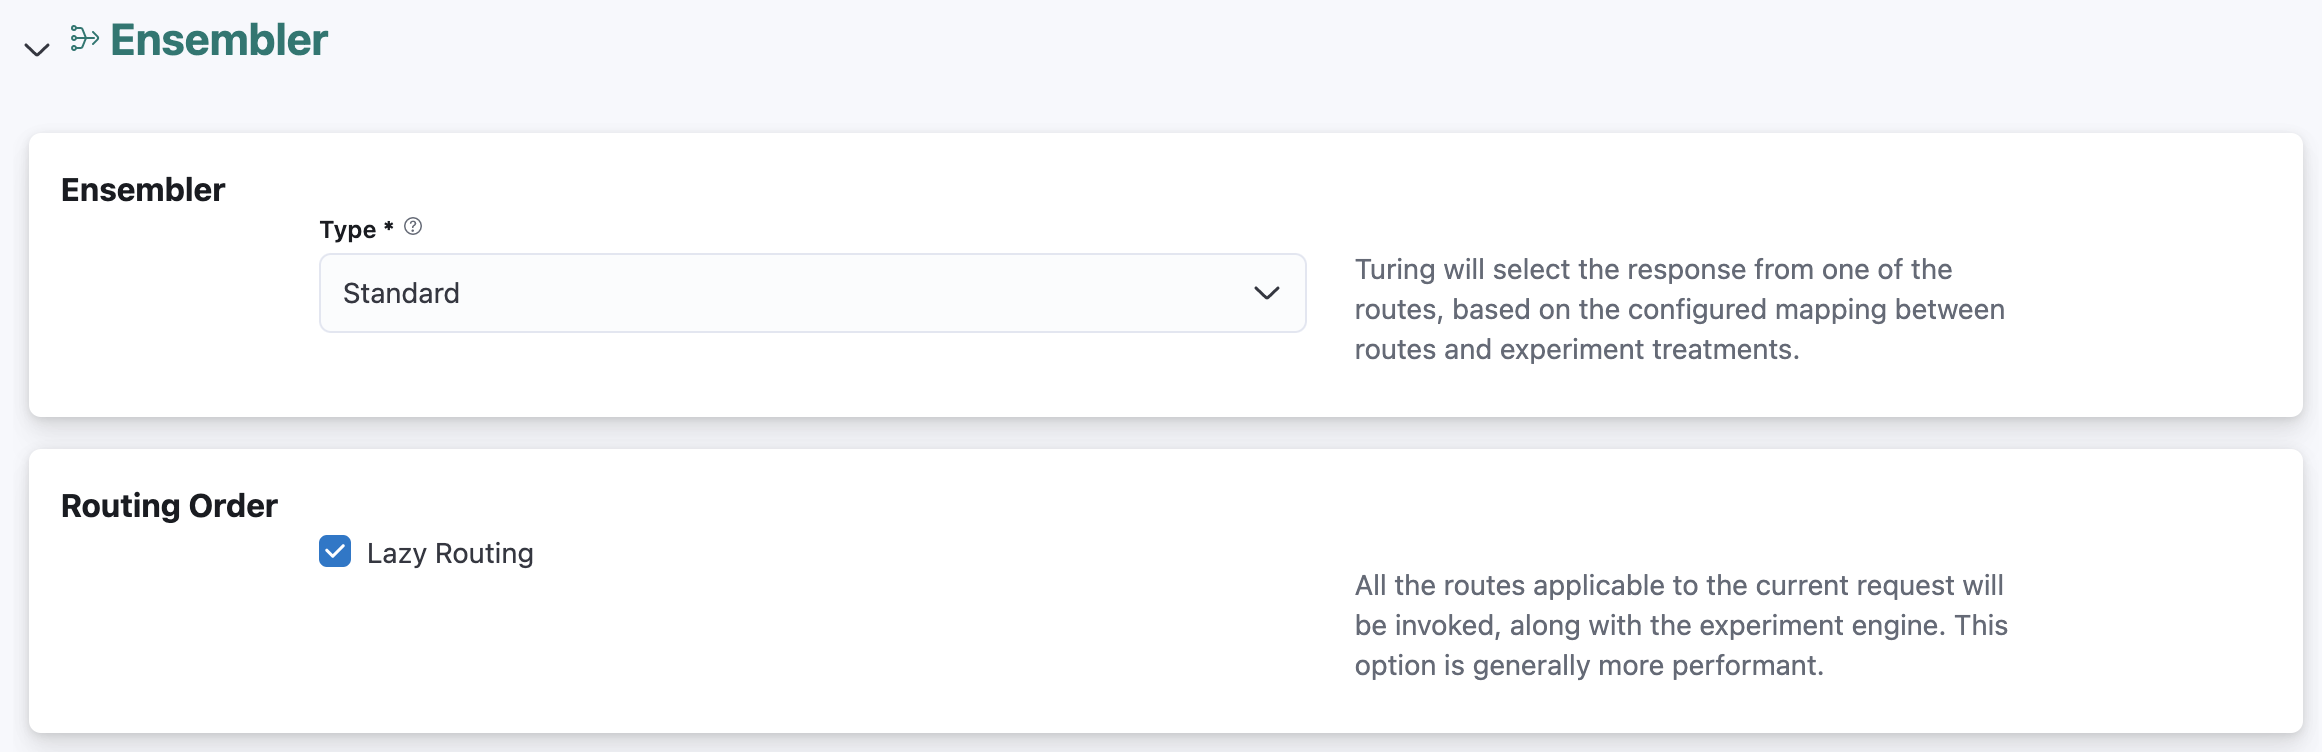
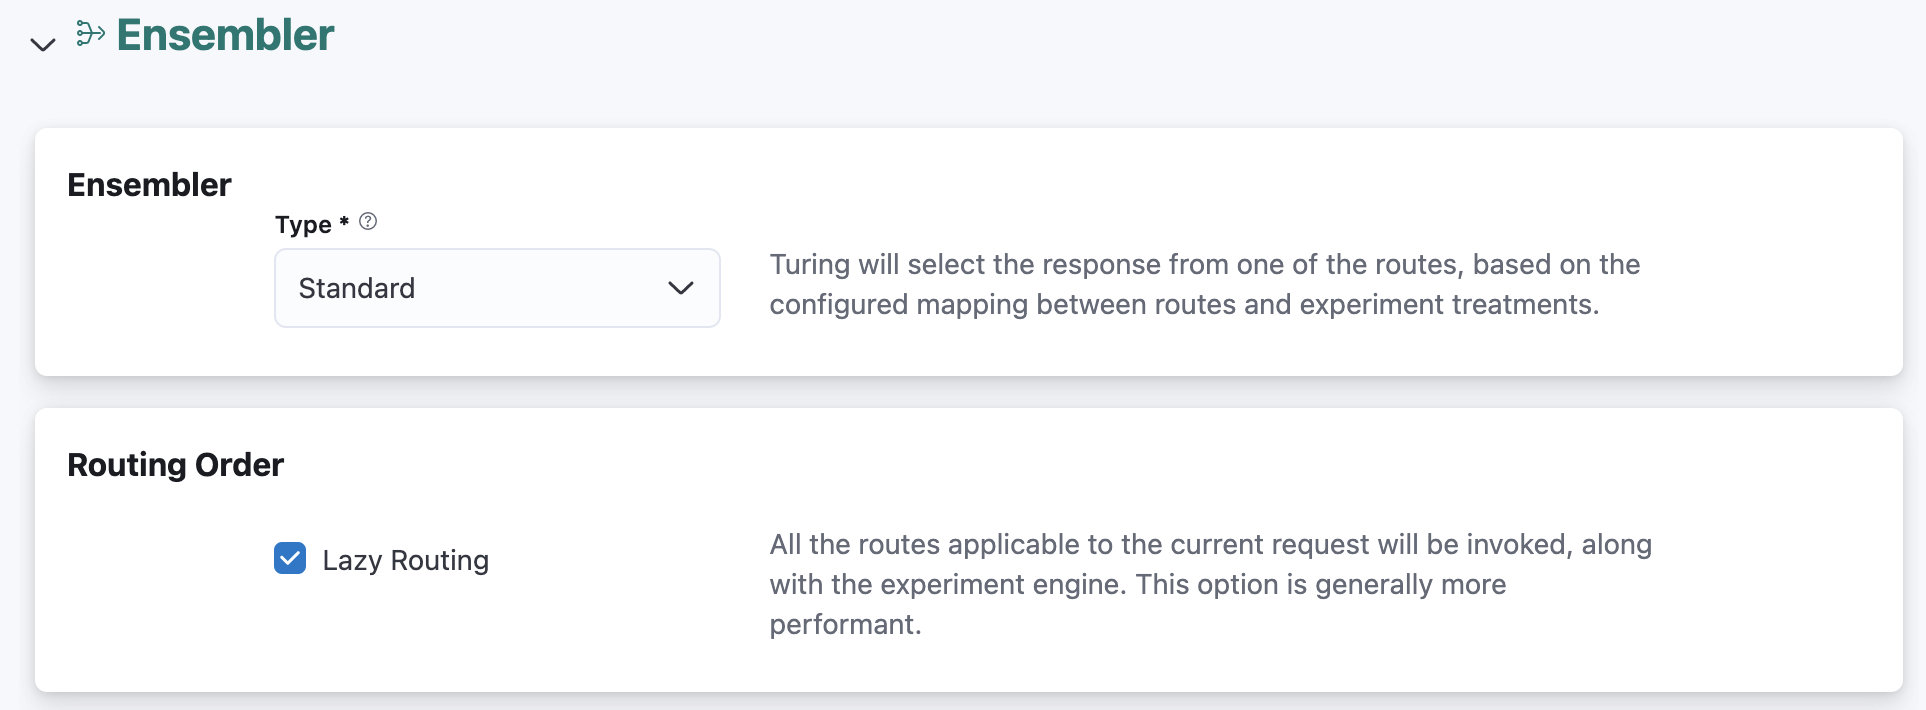
Update routing order panel layout

diff --git a/ui/src/router/components/form/components/ensembler_config/standard_ensembler/StandardEnsemblerRoutingOrderPanel.js b/ui/src/router/components/form/components/ensembler_config/standard_ensembler/StandardEnsemblerRoutingOrderPanel.js
@@ -1,5 +1,5 @@
 import React from "react";
-import { EuiCheckbox, EuiFlexItem, EuiForm, EuiFormRow } from "@elastic/eui";
+import { EuiCheckbox, EuiFlexItem, EuiForm, EuiFormRow, EuiSpacer } from "@elastic/eui";
 import { DescribedFormGroup } from "../../../../../../components/form/described_form_group/DescribedFormGroup";
 import { Panel } from "../../Panel";
 
@@ -27,12 +27,15 @@ export const StandardEnsemblerRoutingOrderPanel = ({
               isInvalid={!!errors}
               error={errors}
               display="row">
-              <EuiCheckbox
-                id={"routing-order-checkbox"}
-                label={"Lazy Routing"}
-                checked={isLazyRouting}
-                onChange={e => onChange(e.target.checked)}
-              />
+              <>
+                <EuiSpacer />
+                <EuiCheckbox
+                  id={"routing-order-checkbox"}
+                  label={"Lazy Routing"}
+                  checked={isLazyRouting}
+                  onChange={e => onChange(e.target.checked)}
+                />
+              </>
             </EuiFormRow>
           </DescribedFormGroup>
         </EuiFormRow>

diff --git a/ui/src/components/form/described_form_group/DescribedFormGroup.js b/ui/src/components/form/described_form_group/DescribedFormGroup.js
@@ -4,7 +4,7 @@ import "./DescribedFormGroup.scss";
 
 export const DescribedFormGroup = ({ description, ...props }) => (
   <EuiFlexGroup direction="row" gutterSize="none">
-    <EuiFlexItem grow={3}>{props.children}</EuiFlexItem>
+    <EuiFlexItem grow={1}>{props.children}</EuiFlexItem>
 
     {description && (
       <EuiFlexItem grow={2} className="euiFlexItem--engineTypeDescription">
